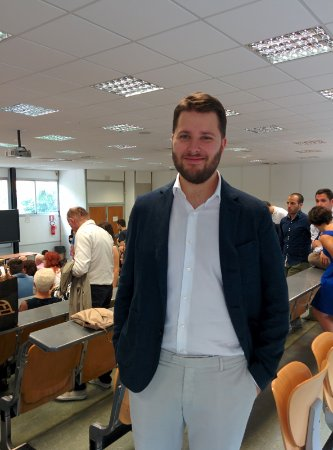
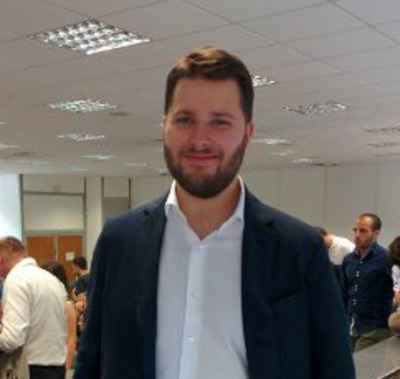
Fix team members
Uploaded a few pictures and better responsive layout

diff --git a/_includes/team.html b/_includes/team.html
@@ -1,5 +1,5 @@
-<section id="team" class="container content-section">
-	<div class="row">
+<section id="team" class="content-section">
+	<div style="margin:auto" class="row">
 		<br></br>
 		<h2 class="section-heading text-center">The Team</h2>
 		<div class="team-container">
